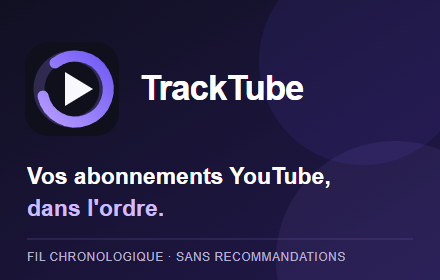
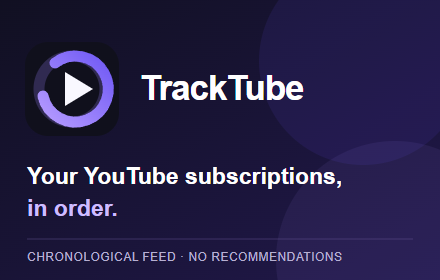
Use English Store listing assets in TrackTube 1.1.1 (Codex GPT-6)

Changed region(s): [[0.0591, 0.5714, 0.7977, 0.6857], [0.0591, 0.8857, 0.7977, 0.9429], [0.0591, 0.7143, 0.3841, 0.7714]]

diff --git a/privacy.html b/privacy.html
@@ -39,8 +39,8 @@
   </ul>
 
   <section lang="fr">
-    <p>Version du 8 octobre 2026. Cette notice décrit le code de TrackTube
-    <span class="version">1.1.0</span>.</p>
+    <p>Version du 9 octobre 2026. Cette notice décrit le code de TrackTube
+    <span class="version">1.1.1</span>.</p>
   </section>
   <section lang="fr">
     <h2>Données utilisées</h2>
@@ -93,8 +93,8 @@
   </section>
 
   <section lang="en" hidden>
-    <p>Updated 8 October 2026. This notice describes the code of TrackTube
-    <span class="version">1.1.0</span>.</p>
+    <p>Updated 9 October 2026. This notice describes the code of TrackTube
+    <span class="version">1.1.1</span>.</p>
   </section>
   <section lang="en" hidden>
     <h2>Data used</h2>

diff --git a/CLAUDE.md b/CLAUDE.md
@@ -12,7 +12,7 @@ Here it is the point of view of whoever modifies it.
 
 ## Current state
 
-Version 1.1.0, audited in October 2026 for a first public release: the README is
+Version 1.1.1, audited in October 2026 for a first public release: the README is
 the GitHub landing page, the permissions are down to `storage`,
 `unlimitedStorage`, `alarms` and `https://www.youtube.com/*`, and the welcome
 flow is three steps rather than six.

diff --git a/CHANGELOG.md b/CHANGELOG.md
@@ -1,5 +1,10 @@
 # Changelog
 
+## 1.1.1 — 9 October 2026
+
+- Use English for the Chrome Web Store summary and small promotional image.
+- No runtime behavior or local database schema change from 1.1.0.
+
 ## 1.1.0 — 9 October 2026
 
 - Add three retrospective screens: comparison with the previous period, viewing

diff --git a/docs/LIMITES.md b/docs/LIMITES.md
@@ -1,4 +1,4 @@
-# Known limits — 1.1.0
+# Known limits — 1.1.1
 
 Updated October 9, 2026. What follows is what TrackTube does not promise, and
 why. Measurements are dated: they were true on the day they name, on the videos
